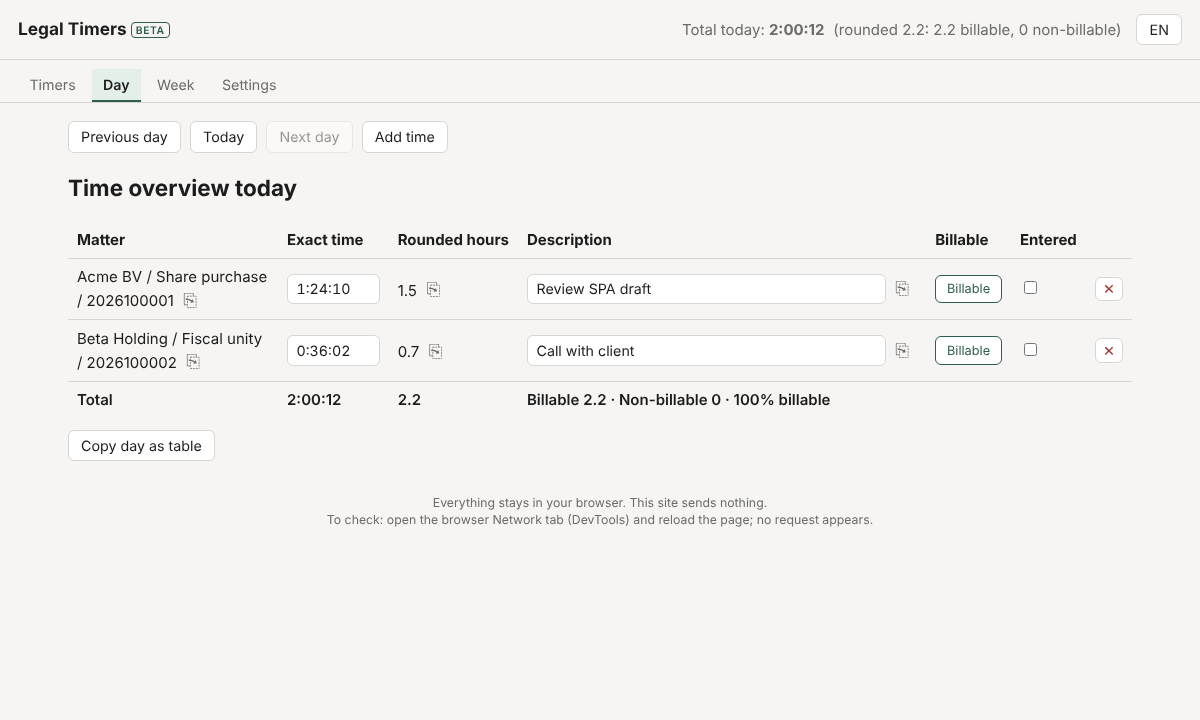
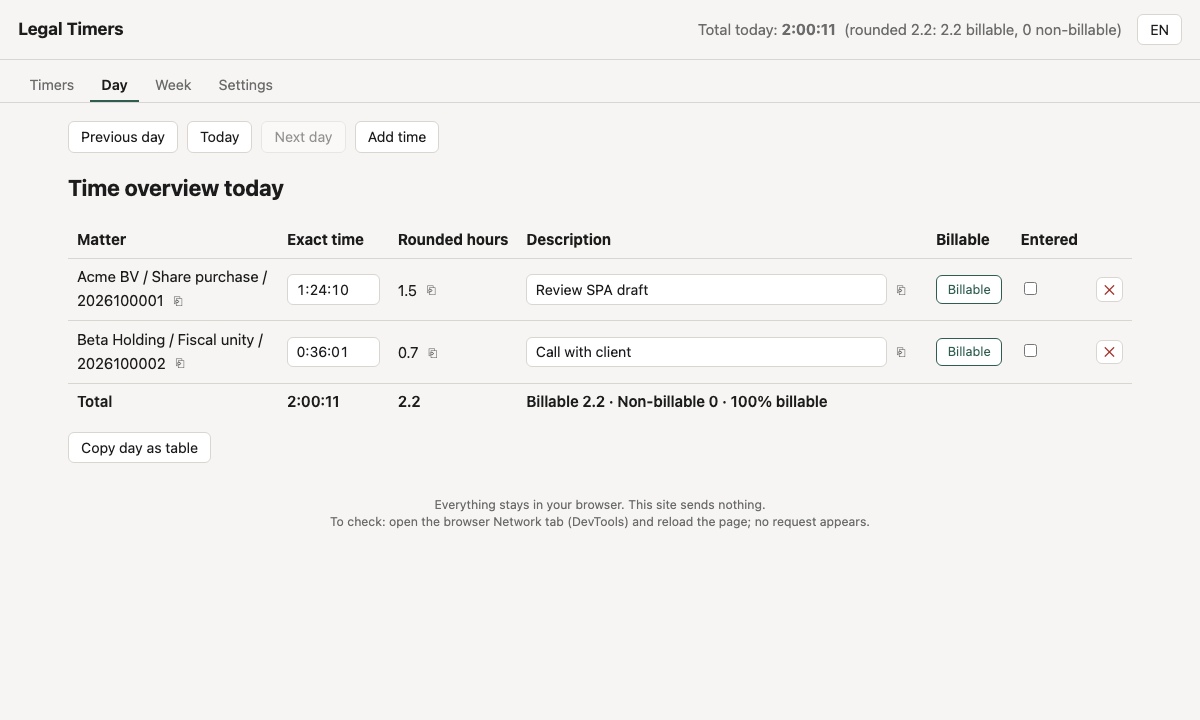
Fix lost clicks in Safari and Day view; drop beta wording
Safari/WebKit: typing a matter and clicking Start right away did not
start the timer. The dossier change re-rendered the card between
mousedown and mouseup and rewrote the button text, which makes WebKit
drop the click. Button text is now only written when it changes.

All browsers: editing a time in the Day view and then clicking another
row (Entered checkbox, copy button) lost that click, because the table
was rebuilt under the pointer. That re-render now waits until the
pointer is released.

Public launch: remove the beta badge, turn docs/BETA.md into a general
user guide (docs/GUIDE.md), refresh screenshots and the og image.

diff --git a/public/src/app.js b/public/src/app.js
@@ -244,12 +244,10 @@ function renderCards() {
     entry.node.classList.toggle('is-running', running);
     entry.node.classList.toggle('is-ready', ready);
     entry.node.classList.toggle('is-nonbillable', !billable);
-    entry.startPauseBtn.textContent = running ? t('pause') : t('start');
-    entry.readyBtn.textContent = ready ? `${t('ready')} ✓` : t('ready');
-    setBillableToggle(entry.billableBtn, billable, t('cardBillableTitle'));
-    if (billable !== core.clockBillableDefault(state, clock.id, day)) {
-      entry.billableBtn.textContent += ` (${t('todayOnly')})`;
-    }
+    setText(entry.startPauseBtn, running ? t('pause') : t('start'));
+    setText(entry.readyBtn, ready ? `${t('ready')} ✓` : t('ready'));
+    const todayOnly = billable !== core.clockBillableDefault(state, clock.id, day);
+    setBillableToggle(entry.billableBtn, billable, t('cardBillableTitle'), todayOnly ? ` (${t('todayOnly')})` : '');
     entry.deleteBtn.setAttribute('aria-label', t('deleteTimer'));
     entry.deleteBtn.title = t('deleteTimer');
   }
@@ -288,8 +286,37 @@ function fillSuggestions(list, dossier) {
   }
 }
 
-function setBillableToggle(btn, billable, title) {
-  btn.textContent = billable ? t('billable') : t('nonBillable');
+// Only touch the text when it changes. A dossier `change` (fired by the
+// mousedown that blurs the input) re-renders the cards; replacing a button's
+// text node between mousedown and mouseup makes Safari/WebKit drop the click.
+function setText(el, text) {
+  if (el.textContent !== text) el.textContent = text;
+}
+
+// Same cause, bigger effect: rebuilding a table on that `change` removes the
+// element under the pointer, and the click (on a checkbox or copy button in
+// another row) is lost in every browser. While a pointer is down, run the
+// re-render only after the click has landed.
+let pointerIsDown = false;
+const POINTER_END = ['pointerup', 'pointercancel'];
+document.addEventListener('pointerdown', () => { pointerIsDown = true; }, true);
+for (const type of POINTER_END) {
+  document.addEventListener(type, () => { setTimeout(() => { pointerIsDown = false; }, 0); }, true);
+}
+function afterPointer(fn) {
+  if (!pointerIsDown) {
+    fn();
+    return;
+  }
+  const run = () => {
+    for (const type of POINTER_END) document.removeEventListener(type, run, true);
+    setTimeout(fn, 0);
+  };
+  for (const type of POINTER_END) document.addEventListener(type, run, true);
+}
+
+function setBillableToggle(btn, billable, title, suffix = '') {
+  setText(btn, (billable ? t('billable') : t('nonBillable')) + suffix);
   btn.classList.toggle('is-nonbillable', !billable);
   btn.setAttribute('aria-pressed', String(billable));
   btn.title = title;
@@ -518,8 +545,10 @@ function renderDay() {
       }
       state = core.setManualElapsed(state, row.clockId, day, ms, now());
       persist();
-      renderDay();
-      tick();
+      afterPointer(() => {
+        renderDay();
+        tick();
+      });
     });
     tdExact.appendChild(exactInput);
 

diff --git a/public/styles.css b/public/styles.css
@@ -372,18 +372,6 @@ tbody tr:hover {
   margin-top: 1em;
 }
 
-.beta-badge {
-  font-size: 0.6em;
-  font-weight: 600;
-  text-transform: uppercase;
-  letter-spacing: 0.05em;
-  color: var(--accent);
-  border: 1px solid var(--accent);
-  border-radius: 4px;
-  padding: 0.1em 0.4em;
-  vertical-align: middle;
-}
-
 .storage-warning {
   background: var(--banner-bg);
   border: 1px solid var(--danger);

diff --git a/public/index.html b/public/index.html
@@ -22,7 +22,7 @@
 </head>
 <body>
 <header class="app-header">
-  <h1 class="app-title"><span data-i18n="appTitle">Legal Timers</span> <span class="beta-badge">beta</span></h1>
+  <h1 class="app-title"><span data-i18n="appTitle">Legal Timers</span></h1>
   <div class="header-total">
     <span data-i18n="todayTotal">Totaal vandaag</span>:
     <strong id="header-today-total">0:00:00</strong>

diff --git a/docs/GUIDE.md b/docs/GUIDE.md
@@ -1,4 +1,4 @@
-# Legal Timers: betatest
+# Legal Timers: handleiding
 
 Legal Timers is een schaakklok voor je uren. Je zet per dossier een timer
 neer, en wie een timer start, pauzeert vanzelf de timer die liep. Aan het
@@ -55,24 +55,16 @@ Liep een timer langer dan 3 uur of over middernacht door, dan vraagt de
 pagina of dat klopt. Met **Corrigeer eindtijd** vul je in hoe laat je echt
 stopte.
 
-## Wat we willen weten
-
-- Klopt de afronding met hoe jij schrijft?
-- Gaat het kopiëren naar je urenregistratie soepel, of mis je iets?
-- Liep er ooit een timer door terwijl je dacht dat hij stond, of andersom?
-- Ben je ooit tijd kwijtgeraakt? Zo ja: wat deed je net daarvoor?
-- Wat mis je het meest?
-
 ## Bekende beperkingen
 
 - Geen synchronisatie tussen computers of browsers, bewust.
 - Een timer hernoemen verandert de naam ook op eerdere dagen.
-- Getest in Chrome. Edge, Firefox en Safari zouden ook moeten werken; meld het
-  als iets daar anders doet.
+- Getest in Chromium (Chrome, Edge), Firefox en WebKit (Safari). Doet iets
+  het in jouw browser anders, meld het dan.
 
 ## Feedback
 
-Stuur je bevindingen aan degene die je de link gaf, of maak een issue aan op
+Een fout gevonden of een idee? Maak een issue aan op
 https://github.com/jorismaas1-web/legaltimers/issues (dat is openbaar). Een
 screenshot en de stappen die je deed helpen het meest. Gebruik verzonnen
 dossiers in screenshots: nooit echte cliëntnamen, dossiernummers of

diff --git a/docs/SPEC.md b/docs/SPEC.md
@@ -146,7 +146,7 @@ product spec the code is built against; keep it in sync when behaviour changes.
   Ctrl/Cmd/Alt held, or while a dialog is open): 1-9 start/switch clock
   at that position, Space pause all, N new timer. Listed in a small help line.
 - System font, calm neutral styling, light/dark via prefers-color-scheme.
-- A small "beta" badge next to the title during the beta.
+- No badge next to the title.
 - Line on the page: "Alles blijft in je browser. Deze site verstuurt niets." plus
   a short "how to check" note (DevTools Network tab).
 - Views: Timers (default) / Dag / Week / Instellingen, as tabs on one page.

diff --git a/README.md b/README.md
@@ -99,7 +99,7 @@ Outside `public/` (not served):
 
 - `test/*.test.js`: tests, run with the Node built-in test runner.
 - `docs/SPEC.md`: the full product spec.
-- `docs/BETA.md`: the (Dutch) guide for beta testers.
+- `docs/GUIDE.md`: a short user guide (Dutch).
 
 ## Contributing
 
